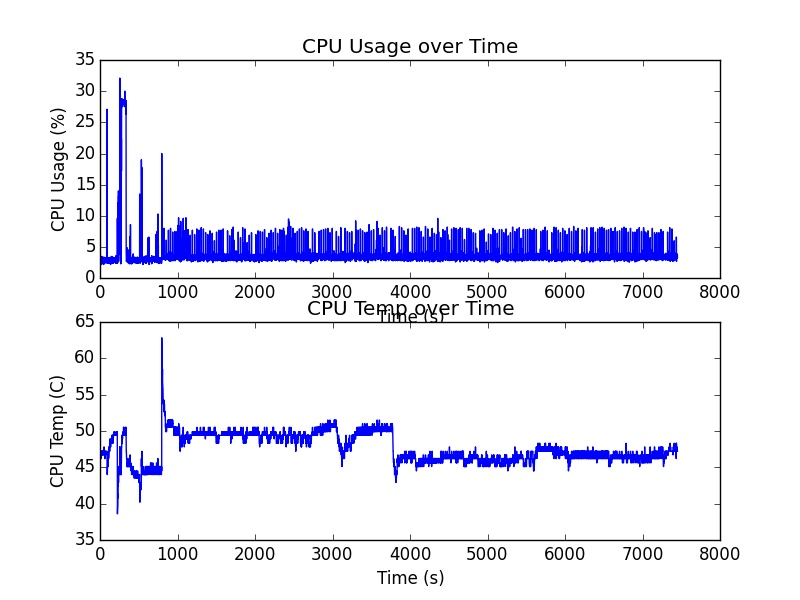
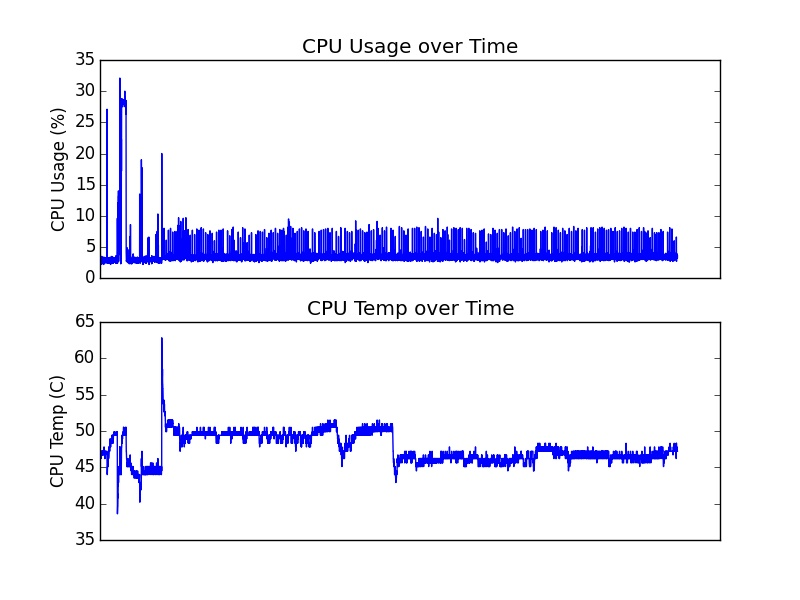
trying to remove tick labels

diff --git a/ee629_final.py b/ee629_final.py
@@ -26,11 +26,15 @@ plt.plot(x1,x0,'b-')
 plt.xlabel('Time (s)')
 plt.ylabel('CPU Usage (%)')
 plt.title('CPU Usage over Time')
+frame1 = plt.gca()
+frame1.axes.get_xaxis().set_visible(False)
 plt.subplot(2,1,2)
 plt.plot(y1,y0)
 plt.xlabel('Time (s)')
 plt.ylabel('CPU Temp (C)')
 plt.title('CPU Temp over Time')
+frame2 = plt.gca()
+frame2.axes.get_xaxis().set_visible(False)
 plt.savefig('timeseries.jpg')
 plt.clf()
 
